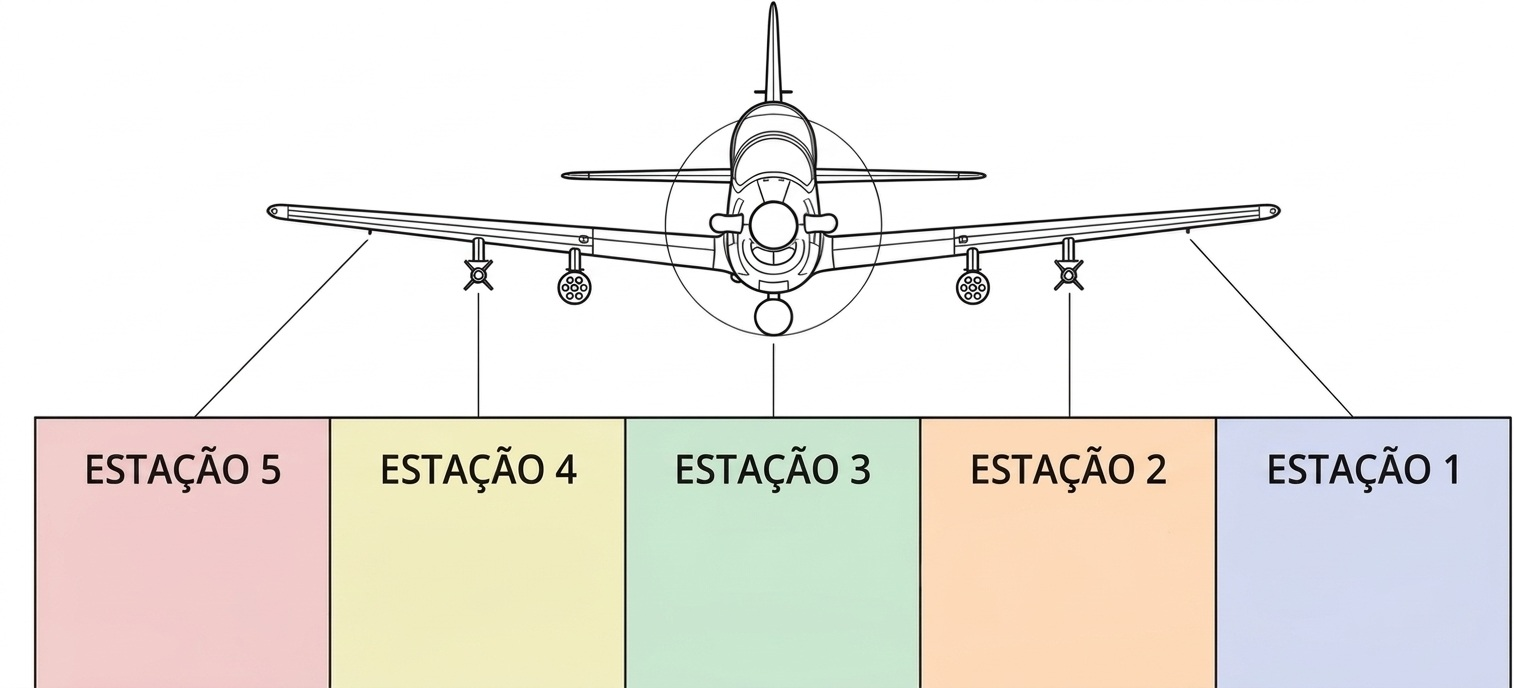
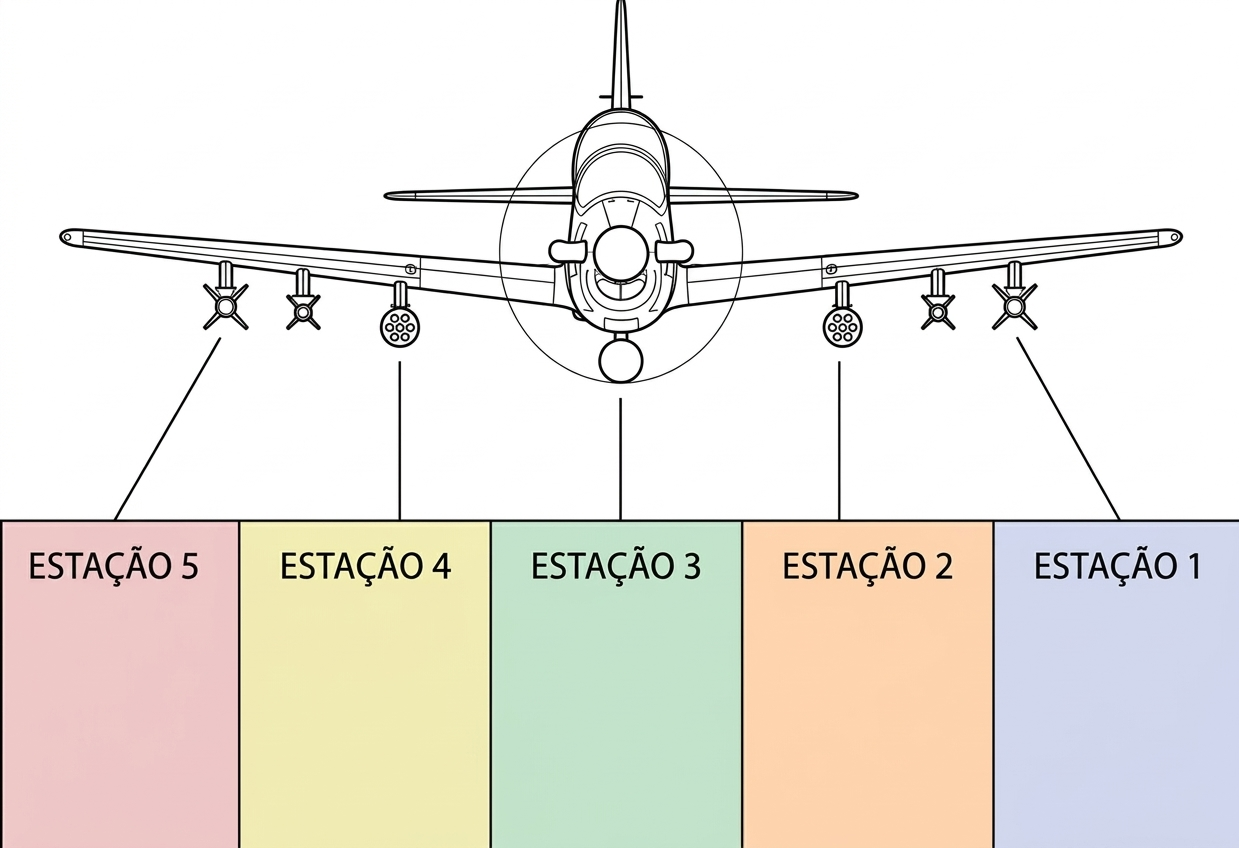
AFA-TWIN - piloto de testes (deploy automatizado)

Changed region(s): [[0.0, 0.0, 1.0, 1.0], [0.8281, 0.4273, 0.8588, 0.5189], [0.1227, 0.4578, 0.1533, 0.5189]]

diff --git a/frontend/src/components/ConfigurationDiagram.tsx b/frontend/src/components/ConfigurationDiagram.tsx
@@ -1,12 +1,12 @@
+import { useState } from "react";
 import type { StationEquipmentDisplay, StationKey } from "../api/types";
 import AuthorizedConfigSymbol from "./AuthorizedConfigSymbol";
 
 // Desenho técnico da aeronave vista de frente com as 5 estações de
-// hardpoint, recortado do novo template de referência enviado pelo usuário
-// (a parte de baixo do original, com as caixas coloridas de exemplo, foi
+// hardpoint, recortado do template de referência enviado pelo usuário (a
+// parte de baixo do original, com as caixas coloridas de exemplo, foi
 // descartada - as caixas abaixo do desenho aqui já são geradas
-// dinamicamente com o equipamento real de cada estação). Substitui a
-// silhueta usada antes (aeronave-silhueta.png).
+// dinamicamente com o equipamento real de cada estação).
 const AIRCRAFT_SILHOUETTE_IMAGE = "/reference/config-diagram-template.png";
 
 // Mesma cor pastel de cada estação no template de referência (rosa/
@@ -20,50 +20,95 @@ const STATIONS: { key: StationKey; label: string; color: string }[] = [
   { key: "station_1", label: "Estação 1", color: "#d6dcf2" },
 ];
 
+type DiagramProps = { code: StationEquipmentDisplay | null; symbolFor: (equipment: string) => string | undefined };
+
+/** Corpo do diagrama (desenho + faixa de estações), reaproveitado tanto no
+ * tamanho normal (inline na tela) quanto no tamanho ampliado (modal de
+ * zoom) - `imageMaxWidth`/`scale` controlam o tamanho de cada versão. */
+function DiagramBody({ code, symbolFor, imageMaxWidth, scale }: DiagramProps & { imageMaxWidth: number; scale: number }) {
+  return (
+    <div className="card" style={{ padding: 12 * scale, background: "#fff", display: "inline-block" }}>
+      <img
+        src={AIRCRAFT_SILHOUETTE_IMAGE} alt="Aeronave vista de frente, com as estações de hardpoint"
+        style={{ width: "100%", maxWidth: imageMaxWidth, display: "block" }}
+      />
+      <div style={{ display: "flex", marginTop: -2 }}>
+        {STATIONS.map((s) => {
+          const equipment = code?.[s.key];
+          const svg = equipment ? symbolFor(equipment) : undefined;
+          return (
+            <div
+              key={s.key}
+              style={{
+                flex: 1, minWidth: 68 * scale, border: "1px solid #999", borderTop: `${3 * scale}px solid #111`,
+                background: s.color, padding: `${6 * scale}px ${4 * scale}px`, display: "flex", flexDirection: "column",
+                alignItems: "center", gap: 4 * scale,
+              }}
+            >
+              <div style={{ fontSize: 9.5 * scale, fontWeight: 700, color: "#111", textTransform: "uppercase" }}>{s.label}</div>
+              <div style={{ minHeight: 22 * scale, display: "flex", alignItems: "center", justifyContent: "center", color: "#111" }}>
+                {svg ? <AuthorizedConfigSymbol svg={svg} size={22 * scale} /> : <span style={{ color: "#666", fontSize: 12 * scale }}>—</span>}
+              </div>
+              {equipment && (
+                <div style={{ fontSize: 7.5 * scale, color: "#222", lineHeight: 1.15, textAlign: "center" }}>{equipment}</div>
+              )}
+            </div>
+          );
+        })}
+      </div>
+    </div>
+  );
+}
+
 /** Mostra a silhueta da aeronave e, logo abaixo, uma estação (5 a 1) por
  * coluna com o equipamento daquele código (ícone + nome), no mesmo
  * formato do documento de referência (aeronave em cima, estações embaixo).
  * `symbolFor` resolve o símbolo SVG de um nome de equipamento (ver
  * Configurações Autorizadas). Sem `code` selecionado, mostra as 5 colunas
- * vazias - o painel fica sempre visível (não só depois de escolher algo). */
-export default function ConfigurationDiagram({
-  code, symbolFor,
-}: { code: StationEquipmentDisplay | null; symbolFor: (equipment: string) => string | undefined }) {
+ * vazias - o painel fica sempre visível (não só depois de escolher algo).
+ * Clicável: abre uma versão ampliada em tela cheia, para ler melhor os
+ * ícones/nomes de cada estação (a pedido do usuário). */
+export default function ConfigurationDiagram({ code, symbolFor }: DiagramProps) {
+  const [zoomed, setZoomed] = useState(false);
+
   return (
     <div style={{ textAlign: "center" }}>
       <div style={{ fontSize: 11, color: "var(--text-secondary)", marginBottom: 4 }}>
         {code ? `Configuração ${code.code}` : "Configuração"}
       </div>
-      <div className="card" style={{ padding: 12, background: "#fff", display: "inline-block" }}>
-        <img
-          src={AIRCRAFT_SILHOUETTE_IMAGE} alt="Aeronave vista de frente, com as estações de hardpoint"
-          style={{ width: "100%", maxWidth: 480, display: "block" }}
-        />
-        <div style={{ display: "flex", marginTop: -2 }}>
-          {STATIONS.map((s) => {
-            const equipment = code?.[s.key];
-            const svg = equipment ? symbolFor(equipment) : undefined;
-            return (
-              <div
-                key={s.key}
-                style={{
-                  flex: 1, minWidth: 68, border: "1px solid #999", borderTop: "3px solid #111",
-                  background: s.color, padding: "6px 4px", display: "flex", flexDirection: "column",
-                  alignItems: "center", gap: 4,
-                }}
-              >
-                <div style={{ fontSize: 9.5, fontWeight: 700, color: "#111", textTransform: "uppercase" }}>{s.label}</div>
-                <div style={{ minHeight: 22, display: "flex", alignItems: "center", justifyContent: "center", color: "#111" }}>
-                  {svg ? <AuthorizedConfigSymbol svg={svg} size={22} /> : <span style={{ color: "#666", fontSize: 12 }}>—</span>}
-                </div>
-                {equipment && (
-                  <div style={{ fontSize: 7.5, color: "#222", lineHeight: 1.15, textAlign: "center" }}>{equipment}</div>
-                )}
-              </div>
-            );
-          })}
+      <button
+        type="button"
+        onClick={() => setZoomed(true)}
+        title="Clique para ampliar"
+        style={{ border: "none", background: "none", padding: 0, cursor: "zoom-in", display: "inline-block" }}
+      >
+        <DiagramBody code={code} symbolFor={symbolFor} imageMaxWidth={480} scale={1} />
+      </button>
+      <div style={{ fontSize: 10.5, color: "var(--text-secondary)", marginTop: 4 }}>🔍 Clique na imagem para ampliar</div>
+
+      {zoomed && (
+        <div
+          role="dialog" aria-modal="true"
+          onClick={() => setZoomed(false)}
+          style={{
+            position: "fixed", inset: 0, background: "rgba(6,15,36,0.85)", zIndex: 200,
+            display: "flex", alignItems: "center", justifyContent: "center", padding: 20, overflow: "auto",
+          }}
+        >
+          <div onClick={(e) => e.stopPropagation()} style={{ textAlign: "center", maxWidth: "95vw" }}>
+            <button
+              type="button" className="btn btn-outline btn-sm"
+              onClick={() => setZoomed(false)}
+              style={{ marginBottom: 12, background: "#fff" }}
+            >
+              Fechar ✕
+            </button>
+            <div>
+              <DiagramBody code={code} symbolFor={symbolFor} imageMaxWidth={900} scale={1.8} />
+            </div>
+          </div>
         </div>
-      </div>
+      )}
     </div>
   );
 }
